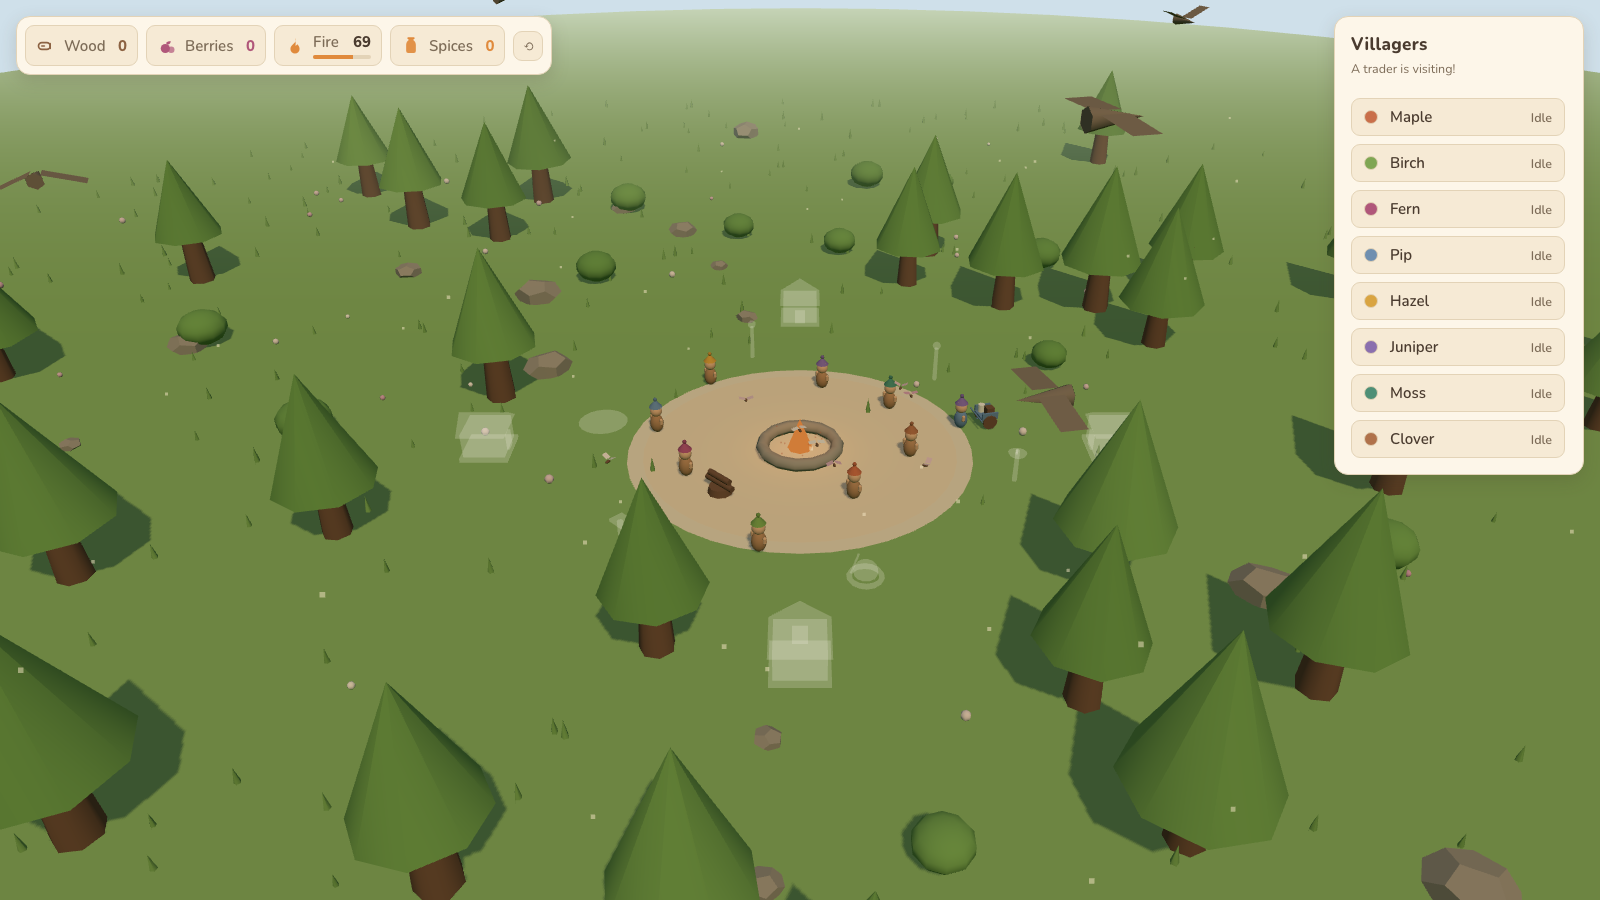
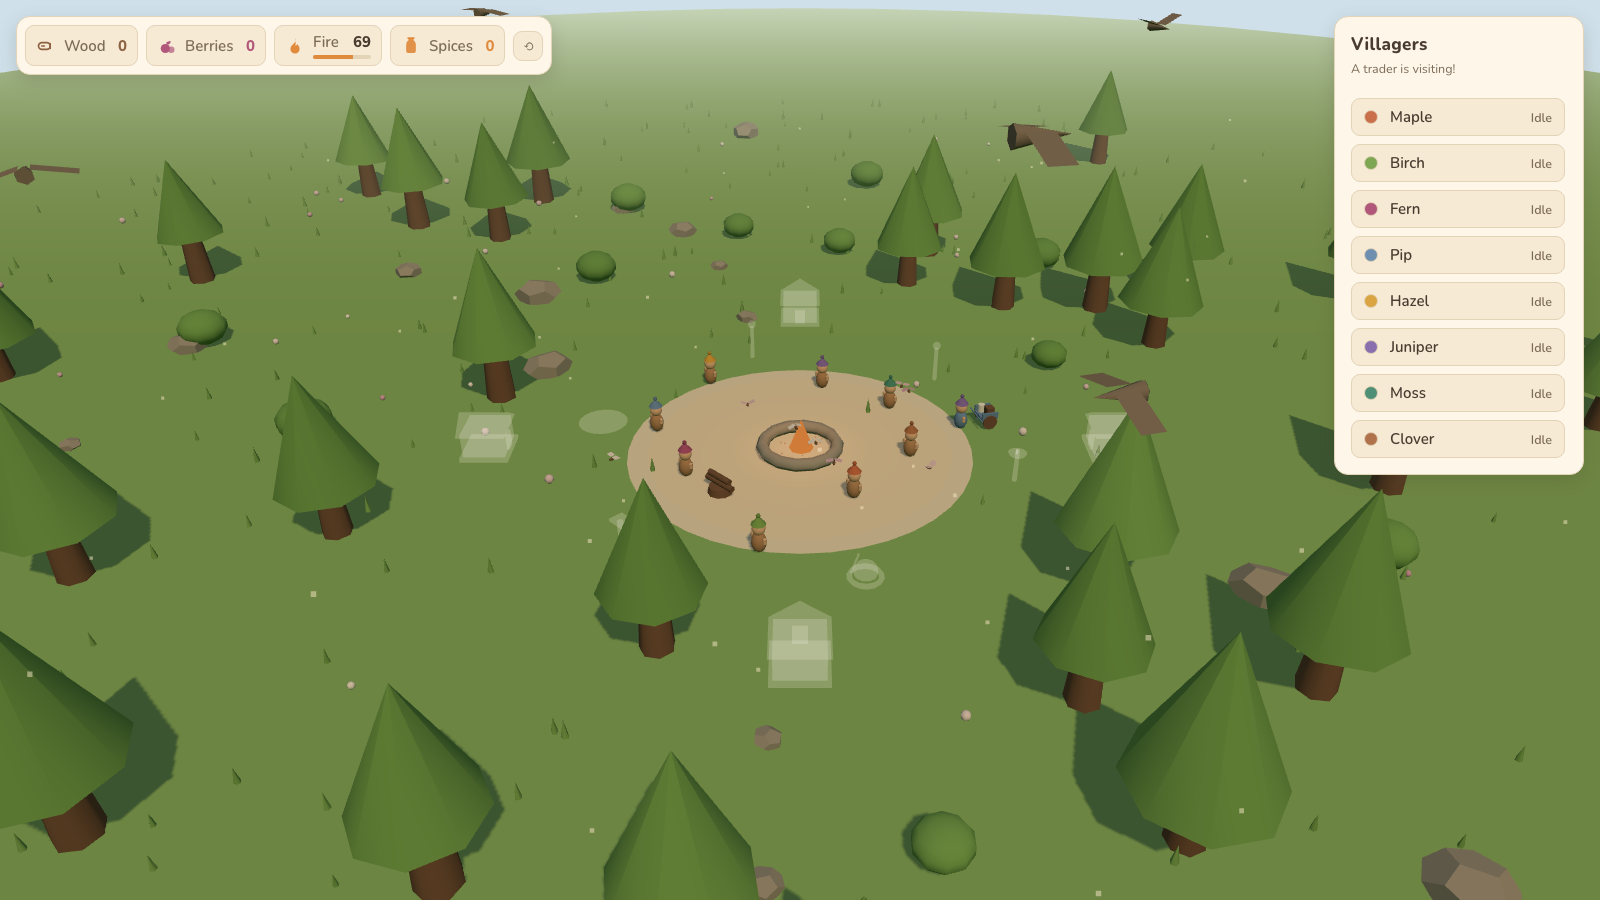
docs: batch-7 review + fix-round ledger + walk-out evidence

diff --git a/docs/tasks/T-review-report.md b/docs/tasks/T-review-report.md
@@ -1,0 +1,233 @@
+# T — Independent review: batch 7 (traders → spices)
+
+Read-only review of the committed wave. **0 Critical · 1 Important · 5 Minor** (6 findings).
+
+**Scope reviewed.** Spec `docs/superpowers/specs/2026-10-05-traders-spices-design.md` (all 7 parts +
+Review-Focus pins), plan `docs/superpowers/plans/2026-10-05-traders-spices.md`, DESIGN §3 (surface,
+`Visitor`, `SimEvent`, `pendingEvents`), §3.2 "Trader visits" / "Hearty meals", §3 persist v4,
+§6 batch-7 line, task reports `T1`–`T4`, and the wave diff `a5ef302` (T1), `8040a94` (T2),
+`40afad7` (T3), `3dff02a` (T4).
+
+**Verification (read-only, this review).**
+- `pnpm exec tsc --noEmit` → exit 0.
+- `pnpm test` → **254/254 passed, 12/12 files** (matches the stated baseline).
+- `git diff --name-only 6744306..3dff02a` → 22 files: exactly the wave's file list plus the four
+  task reports. No `package.json` change, no `: any` in the diff, no `src/render/selectionCue.ts`
+  or `src/ui/cards.ts` churn.
+- A docs-only commit `cf4a193` (REPORT.md + 4 validation PNGs) landed during this review; it
+  touches no source, and both gates were re-run after it (still exit 0 / 254-254).
+
+---
+
+## Findings
+
+### Critical
+
+*none.*
+
+### Important
+
+**I1 — `src/render/trader.ts:322` — the walk-out cart yaw cancels the wrong angle, so the cart
+counter-rotates during the turnaround and finishes 44° askew.**
+
+```ts
+cart.rotation.y = s.leaving ? (FIRE_FACING - s.facing) + Math.PI * s.turn : 0;
+```
+
+`s.facing` on the walk-out leg is `blendFacing(FIRE_FACING, OUT_FACING, turn)`
+(`:178`), so `FIRE_FACING - s.facing` is exactly `−angleDelta · turn`, and the expression collapses
+to **`cart.rotation.y = π · turn`**. The cart's world yaw therefore sweeps `FIRE_FACING →
+FIRE_FACING + π` (**+180°, CCW**) while the trader sweeps `FIRE_FACING → OUT_FACING`
+(**−135.90°, CW**).
+
+Measured from the shipped constants (`EDGE (0, −12)`, stall r 4.2 @ 300°):
+
+| quantity | value |
+|---|---|
+| `IN_FACING` | 14.10° |
+| `OUT_FACING` | 194.10° |
+| `FIRE_FACING` | −30.00° |
+| actual turn arc `angleDelta(FIRE_FACING, OUT_FACING)` | **−135.90°** |
+| cart world yaw at `turn = 1` | **150.00°** |
+| walk heading at `turn = 1` | **194.10°** |
+| error | **−44.10°** |
+
+Two consequences, both visible on every visit's ~6 s walk-out:
+1. **During the turn** the cart spins 180° one way while the trader turns 136° the other — relative
+   to the body the cart rotates ~316° in ~1 s.
+2. **At rest** the shafts (`:267`/`:268`, cart-local `+z`, commented *"reaching forward to the
+   trader's hands"*) point 44.1° off the trader instead of at them.
+
+The code's own stated goal (`:318-321`: *"the cart ends up behind them again, **facing the way they
+walk**"*) is not met — `facing the way they walk` is 194.10°, not 150°. The premise in that comment
+is also wrong: `cart.rotation.y` spins the cart about its own origin (`cart.position` is fixed at
+`root`-local `(0, 0, CART_Z)`, `:249`), so a `0` here cannot "carry it around through the trader";
+the *position* sweep is identical under either formula. Note the walk-in leg already uses `0`
+(`:322` false branch) and the parked case uses `0` (`:341`), so walk-out is the odd leg out.
+
+The expression's intent was clearly "cancel the body's sweep" — and cancelling the real arc
+`angleDelta(FIRE_FACING, OUT_FACING)` (−135.90°) is algebraically **exactly `0`**. `Math.PI` is a
+stand-in for an angle the code does not have.
+
+*Minimal fix:* `cart.rotation.y = 0;` for both legs (i.e. drop the `s.leaving ? … :` ternary) — the
+cart then trails aligned with the walk, matching walk-in and park. If the counter-term is wanted
+for its own sake, use the real arc: `(FIRE_FACING - s.facing) + angleDelta(FIRE_FACING, OUT_FACING) * s.turn`.
+Also worth correcting the `:318` comment: the turn rides the first 45 % of the leg
+(`TURN_WINDOW`, `:177`), not "on the spot at the stall".
+
+This is the same file, same class of assumption (scene-graph / transform correctness) as the wave's
+live-caught Critical, and it is unreachable by `tsc` or the suite — `src/render/**` has no tests.
+
+### Minor
+
+**M1 — `src/ui/index.ts:247-253` (pump call at `:415`) — the visit-end auto-close closes the
+popover but not the render ring, so the next visit opens with a lit ring and no face.**
+`closeTraderFace()` flips `traderMode`, hides `traderCard` and (when nothing else is selected)
+hides the popover — it never notifies `actions.onSelect`, so `main.ts:46`'s
+`render.setTraderSelected(false)` never runs and `traderSelected` stays `true`
+(`src/render/index.ts:116`, re-applied every frame at `:184`). While away the ring is invisible
+(`trader.ts:298-300`), but the moment visit 2 starts `ringGroup.visible = selected` re-lights it
+(`trader.ts:345`) under a closed popover — for the whole visit, until the player's next canvas
+click (`main.ts:137`) or panel action. Reachable by simply opening the trader once and going idle.
+*Minimal fix:* in `closeTraderFace()`, call `actions.onSelect(null);` — safe because `traderMode`
+can only be `true` while `selectedId === null && selectedStructureId === null` (every other face
+opens via `clearSelectionVisuals`, `:102-111`), so the villager/structure halves are no-ops.
+
+**M2 — `src/sim/visitor.test.ts:140-161` — Review Focus 3's spice half has no test.**
+The pin (spec `:136-137`, plan `:60-61`) reads *"big-dt does not double-consume spices or
+trades"*. The two tests cover schedule single-fire and assert `tradesLeft === TRADES_PER_VISIT`
+after a giant arrival (`:148`), which covers the **trades** half; the **spice** half is never
+exercised — every hearty-eat test drives the sim in 50 ms steps (`:171`, `:189`, `:204`). The
+implementation looks safe by construction (a `walk()` arrival resolves to `'resting'` in the same
+tick, `sim/index.ts:556`, so one tick can eat at most once per villager), but nothing pins it.
+*Minimal fix:* one test — set a `'walking'` villager with `pot.meals ≥ 1` and
+`resources.spices = 2`, call `tick(state, 10_000_000)`, assert exactly one spice consumed, one
+`eat` event, `state.resources.spices === 1`.
+
+**M3 — `src/ui/derive.test.ts:730-750` — Review Focus 4's "simultaneously" half is pairwise only.**
+The pin (spec `:137-138`) asks for *"hint priority with trader + thanks + favor **simultaneously**"*.
+The test builds embers+trader, thanks+trader, favor+trader and trader+dimming/meals/roaring —
+never a state with an active favor **and** a `thanks` name **and** a live visit. `villageLine` is a
+linear if/return chain (`derive.ts:119`), so the pairwise results are transitive and I could
+find no ordering defect; this is a coverage gap, not a bug. *Minimal fix:* one extra assertion —
+`villageLine(state({visitor: visiting(), villagers: [villager('v1')], favors: favors([{active:true}])}), 'Fern')`
+→ `'Fern is delighted!'`.
+
+**M4 — `src/ui/index.ts` has no test file — the trader-face open/close matrix is unpinned.**
+This is the gap already flagged in the brief (auto-close on deselect / ground / visit end /
+`selectTrader(on?)`), and it is worth stating plainly because it is the same hole that shipped
+batch 6's C1: everything in `ui/index.ts` — `applyTraderSelection` (`:224`), `closeTraderFace`
+(`:247`), `selectTrader` (`:476`), `syncTrader` (`:212`), the `data-face` switch (`:109`,
+`:236`) and the pump's `traderMode` branch (`:413-416`) — is covered only by the pure
+`derive.ts` helpers. The suite has 12 files; none touches `src/ui/index.ts`, `src/render/**` or
+`src/audio/**`. *Minimal fix:* none required by this spec (Part 5 asks only for the pure
+`tradeDisabled` / hint / pot tests, which exist); record it as the standing DOM-test debt, and
+keep M1 in mind while the face has no test.
+
+**M5 — `src/render/trader.ts` scene-graph assumptions are load-bearing and untested.**
+Judgement requested by the review brief. Enumerated:
+
+| assumption | site | status |
+|---|---|---|
+| `group.add(root)` — the rig is actually in the graph | `:282` | **was** the shipped Critical; now correct, still only guarded by a human live pass |
+| `group.visible = visiting` gates `pick()` (three.js skips invisible meshes) | `:296` → `:186` | correct; untested |
+| ring parented to `group`, not `root`, so it does not inherit yaw | `:277` | correct; untested |
+| ring position copied from `root` each frame while visiting | `:347` | correct; untested |
+| `trader.group` added to `scene` on lazy first `render()` | `render/index.ts:166-168` | correct; untested |
+| `dispose()` clears children before `disposeScene` (no double-dispose) | `:288-292` | correct; untested |
+
+None of these is currently wrong. They are, however, exactly the class of defect that produced the
+wave's Critical: invisible to `tsc`, invisible to the suite, and each one failing silently rather
+than throwing. *Minimal fix (the one T4 itself proposes, `T4-traders-render-report.md:130-132`):*
+one scene-graph assertion — a test that builds the layer and asserts
+`group.children.includes(root)` and that a ray through the projected stall pixel hits a
+`userData.trader` mesh while away and does not while visiting. Until then, keep that check in the
+orchestrator's live pass for every subsequent render task.
+
+---
+
+## Review-Focus pin table
+
+| # | pin (spec `:135-138`) | test | verdict |
+|---|---|---|---|
+| 1 | reload mid-visit resumes exactly (persist) | `persist/index.test.ts:314` "v4 round-trip mid-visit (Review Focus 1)"; arrivals twin at `:456` | ✅ |
+| 2 | no trade while away, never negative resources (sim) | `visitor.test.ts:111` "refuses while away, out of stock, or unaffordable — changing nothing" (all three refusal paths + exact deltas + `pendingEvents` queue at `:91`) | ✅ |
+| 3 | big-dt does not double-consume spices **or trades** (sim) | `visitor.test.ts:141` + `:152` (single arrival/departure, `tradesLeft === 3` at `:148`) | ⚠ trades ✅ · spice half untested → **M2** |
+| 4 | hint priority with trader + thanks + favor *simultaneously* (UI) | `derive.test.ts:730` "priority: embers > (thanks \| favor) > trader > dimming > …" | ⚠ pairwise only → **M3** |
+| 5 | v1→v4 migration chain intact end-to-end (persist) | `persist/index.test.ts:234` "v1 → v4 chained migration", `:267` roster-reject-after-chain, `:276` v3→v4 | ✅ |
+| — | trader-face auto-close matrix (DOM) | *none* | ❌ known gap → **M4** |
+
+Plan-step test scope is otherwise fully met: first visit at exactly 240 000 (`visitor.test.ts:50`),
+stay 120 000 then a fresh 360 000 (`:63`), `tradesLeft` reset (`:76`), hearty eat / no-spice eat /
+favor counting (`:164`, `:182`, `:196`), v3→v4 defaults (`persist:277`), invalid visitor shape
+(`:334`), spices validation (`:373`), `tradeDisabled` truth table (`derive.test.ts:780-810`),
+pot suffix (`:828-850`), hint slot (`:716-726`).
+
+---
+
+## Checked and clean (no findings)
+
+**Schedule.** Constants exactly as spec Part 1.2 (`tasks.ts:124-137`: 240 000 / 120 000 / 360 000 /
+6 000 / 3 / 90 000 / 5 / 4 / 6). `tick` steps single-shot (`sim/index.ts:275-296`): a giant `dt`
+crosses at most one boundary, so no transition is ever skipped or double-fired — the excess time is
+discarded, which is the safe direction (a looping implementation would silently swallow a whole
+visit). `visitMs` is always reset in the same tick that ends the visit, so the render never sees an
+out-of-range `visitMs`. Ordering matches the plan: visitor block after the arrivals loop, before
+the villager loop, inside the `dtMs > 0` region (consistent with `arrivals`, and a save carrying
+`inMs = 0` transitions on the next positive tick).
+
+**`trade()`.** Exact rates; the three refusal paths (`:179-189`) each return before any mutation;
+`tradesLeft` decremented once per call and guarded by `tradesLeft <= 0`, so nothing in `tick` can
+double-consume. Event queued to `pendingEvents` (`:191`), seeded at the top of `tick` *before* the
+`dtMs <= 0` early return, so it survives a `tick(state, 0)` and a save/load in between. `tradeKind`
+present and correct on both kinds.
+
+**Hearty eats.** Exactly one spice per arrival (`:541-552`), `fedMs = HEARTY_FED_MS` only in the
+spice branch, `restMs = EAT_REST_MS` on both branches, full-belly guard untouched, `eat` keeps its
+type so `favors.ts`'s `EVENT_TYPE_FOR` (`favors.ts:56-61`) counts it unchanged — pinned by
+`visitor.test.ts:196`.
+
+**Persist v4.** Chain v1 → v2 → v3 → v4 with **post-migration `isPlausibleState` re-validation on
+every branch** (`persist/index.ts:237`, `:243`, `:254`) — batch 6's I1 is closed, and the closure is
+the stronger form (v4-level, not stage-level). `spices` finite ≥ 0 (`:174-175`), visitor shape with
+enum phase / finite ≥ 0 times / integer `tradesLeft ∈ [0, TRADES_PER_VISIT]` (`:146-163`), arrivals
+shape and the `[8,12]` roster bound still live under `isPlausibleV3State` (`:131-138`).
+`migrateV3toV4` matches spec Part 2 to the letter (`:204-210`). `pendingEvents` is required by
+`isPlausibleV1State` (`:56`), so an older blob can never reach `tick` with an undefined queue.
+
+**UI.** `tradeDisabled` (`derive.ts:193-199`) mirrors `trade()` field-for-field. The trader face
+shows exactly title + `Trades left: N` + the two buttons: `data-face='trader'` hides `.task-grid`
+and `.favor-line` (`ui.css:309-311`), `card.sync(state, undefined)` retires the structure card
+(`ui/index.ts:237`), and `traderCard` is the only sibling shown — verified against the popover's
+full child list in `markup.ts:69-96`. Hint priority is `embers > (thanks | favor) > trader >
+dimming > …` (`derive.ts:119`), with both visit edges forcing an immediate recompute
+(`hintRecomputeDue`, `derive.ts:168-176`; `ui/index.ts:445-460`). Pot suffix is derived, not
+hand-written (`structure-card.ts:42-45`) and lands in the signed `status` view field, so it
+repaints. `TRADE_LABELS` single-sources 5/4/6 from the sim constants (`derive.ts:46-49`), with the
+unsanctioned spice yield documented as a literal (`:44`).
+
+**Render.** Position, facing, wheel roll and the linger sway are all pure functions of
+`(phase, visitMs)` / the render clock — `stepAt` fills a module-level `Step` (`trader.ts:122`,
+`:145-146`) so it is **allocation-free**; `root.position` / `root.rotation.y` / `cart.rotation.*` /
+`wheel*.rotation.x` are all absolute writes, never accumulated, so a reload mid-visit is exact.
+`visitMs ∈ [0, VISIT_STAY_MS)` by construction, so the walk-out leg always runs and the trader
+vanishes at the edge rather than mid-village. `pick` is gated on `group.visible`; the click chain in
+`main.ts:126-146` is villager → trader → structure → ground with all three selection cues written
+every click, and `ui.select(null)` → `ui.selectStructure(null)` → `ui.selectTrader()` lands the
+trader face last so nothing clobbers it (`applyStructureSelection(null)` is a drop-only no-op,
+`ui/index.ts:180-183`). Audio priorities match spec Part 4 exactly (`audio/index.ts:412-439`,
+including `visitor-arrive 8` above `favor-start 7`), with the shared ~400 ms per-type cooldown for
+both new cues (`:61`); `visitor-leave` and `arrived` stay silent (no `SfxKind`, no `case`).
+
+**Discipline.** Three zones only, inside the §6 batch-7 whitelist (`DESIGN.md:366-367`); no new
+deps, no `any`, no new UI zone, no `FOOTPRINT` / `selectionCue` churn, sim re-exports still the
+sanctioned list. All four Part 7 DESIGN amendments are present (`§3:64-68, 79, 95, 117-123, 149-151,
+170, 180`; `§3.2:280-287`; `§3 persist:298`; `§6:366`).
+
+---
+
+## Note
+
+Fixes required by this report are I1 (render cart yaw) and optionally M1 (ring auto-close).
+M2–M5 are test/observability gaps. No source file was modified by this review; `docs/tasks/
+T-review-report.md` is the only file this reviewer created or changed.

diff --git a/REPORT.md b/REPORT.md
@@ -80,6 +80,7 @@ the user re-instructs otherwise.
 | T2 | Batch-7: persist v4 chain | ✅ complete | `opencode/mimo-v2.6-flash-free` | 1 | 254/254 ✅ (persist 38/38) · live: mid-visit reload resumes ✅ | 5/5 |
 | T3 | Batch-7: spices pill + trader popover face | ✅ complete | `opencode/space-bunny-free#xhigh` | 1 + 3 micro-rounds (b/c/d) | 254/254 ✅ · 19 tests · live: gate table + face ✅ | 4.5/5 |
 | T4 | Batch-7: trader rig + handcart + picking + cues | ✅ complete | `opencode/space-bunny-free#xhigh` (2nd session) | 1 + 1 critical fix | 254/254 ✅ · live: 1-click pick + walk ✓ | 4/5 |
+| T-fix | Batch-7 review fix round (I1, M1, M2, M3, M5) | ✅ complete | space-bunny ×2 + muse-spark (3 parallel) | 1 | 260/260 ✅ · first render-layer test ✓ · live walk-out re-shot ✅ | 4.5/5 |
 
 ## Improvement candidates — round 1 (curated 10, easy → hard)
 
@@ -164,6 +165,22 @@ a 3D highlight for the selected structure.
   T2 — T2 replaces internals, signatures unchanged. Cost if wrong: none observed.
 - Notes: vite chunk-size warning (three.js bundle) accepted; dev-server port 5188 (5173 is used by the
   user's other projects).
+
+### 2026-10-05 — Batch-7 review fix round — 0 Critical · 1 Important · 5 Minor: 4 fixed + 1 recorded (3 parallel free models)
+- **I1 (Important, `space-bunny` render)** — the walk-out cart counter-term assumed a π turn; the real arc
+  is −135.9°, and the correct counter-term algebraically collapses to `0`: unconditional
+  `cart.rotation.y = 0` + comment truth-fix (successive micro-fixes prove the value of the review).
+  **M5** — the **first render-layer test** (`src/render/trader.test.ts`, 4 cases): downward rays at the
+  stall and the edge pin scene attachment, visibility gating and live movement; verifiably bites
+  (reverting `group.add(root)` fails exactly the two positive assertions).
+- **M1 (Minor, `space-bunny` UI)** — visit-end auto-close now clears the render ring
+  (`onSelect(null)`), so the next visit can't open with a stray lit ring. **M3** — the
+  "trader + favor + thanks simultaneously" hint-priority assertion.
+- **M2 (Minor, `muse-spark` sim)** — giant-`dt` spice single-consumption pin (adapted to a 0.5 s
+  approach + one 300 s tick; the literal sketch couldn't eat with fuel floored — documented).
+- **M4 (recorded debt)** — `src/ui/index.ts` has no DOM test; the trader-face open/close matrix stays
+  live-verified until a DOM harness exists.
+- Gates **260/260 (13 files)** · live re-run green incl. walk-out evidence `WT-trader-walkout.png`.
 
 ### 2026-10-05 — Batch-7 (traders → spices) wave complete — 4 parallel + 4 micro-rounds, 2 live-caught Criticals (free models)
 - **T1 sim** (5/5): `Visitor` schedule (first 240 000, stay 120 000, gap 360 000, walk 6 000),
